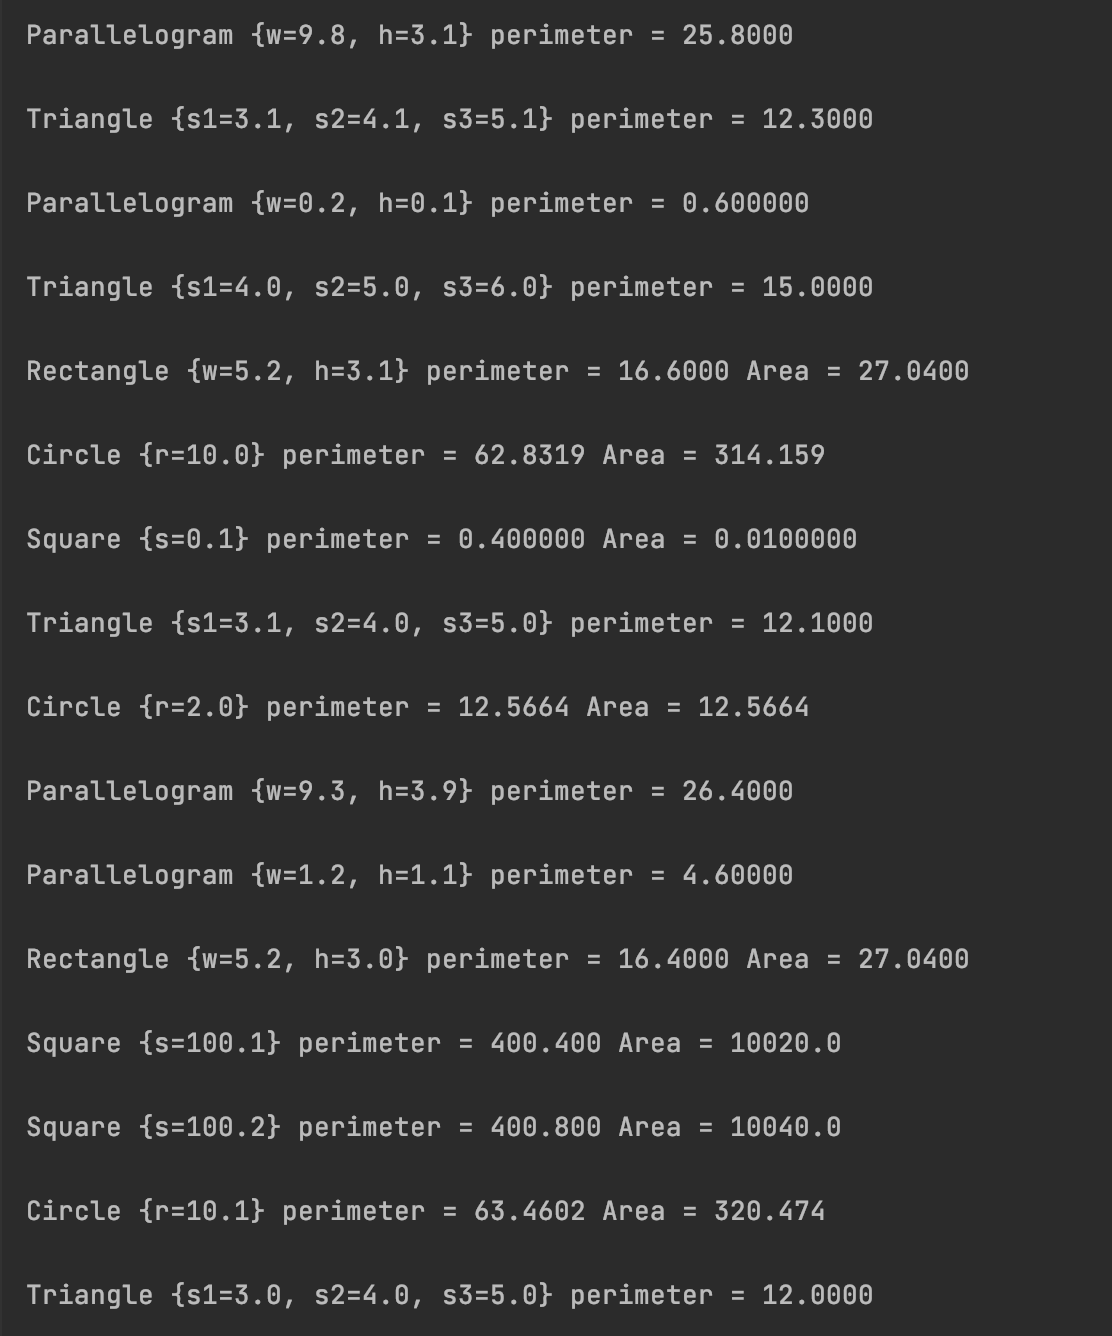
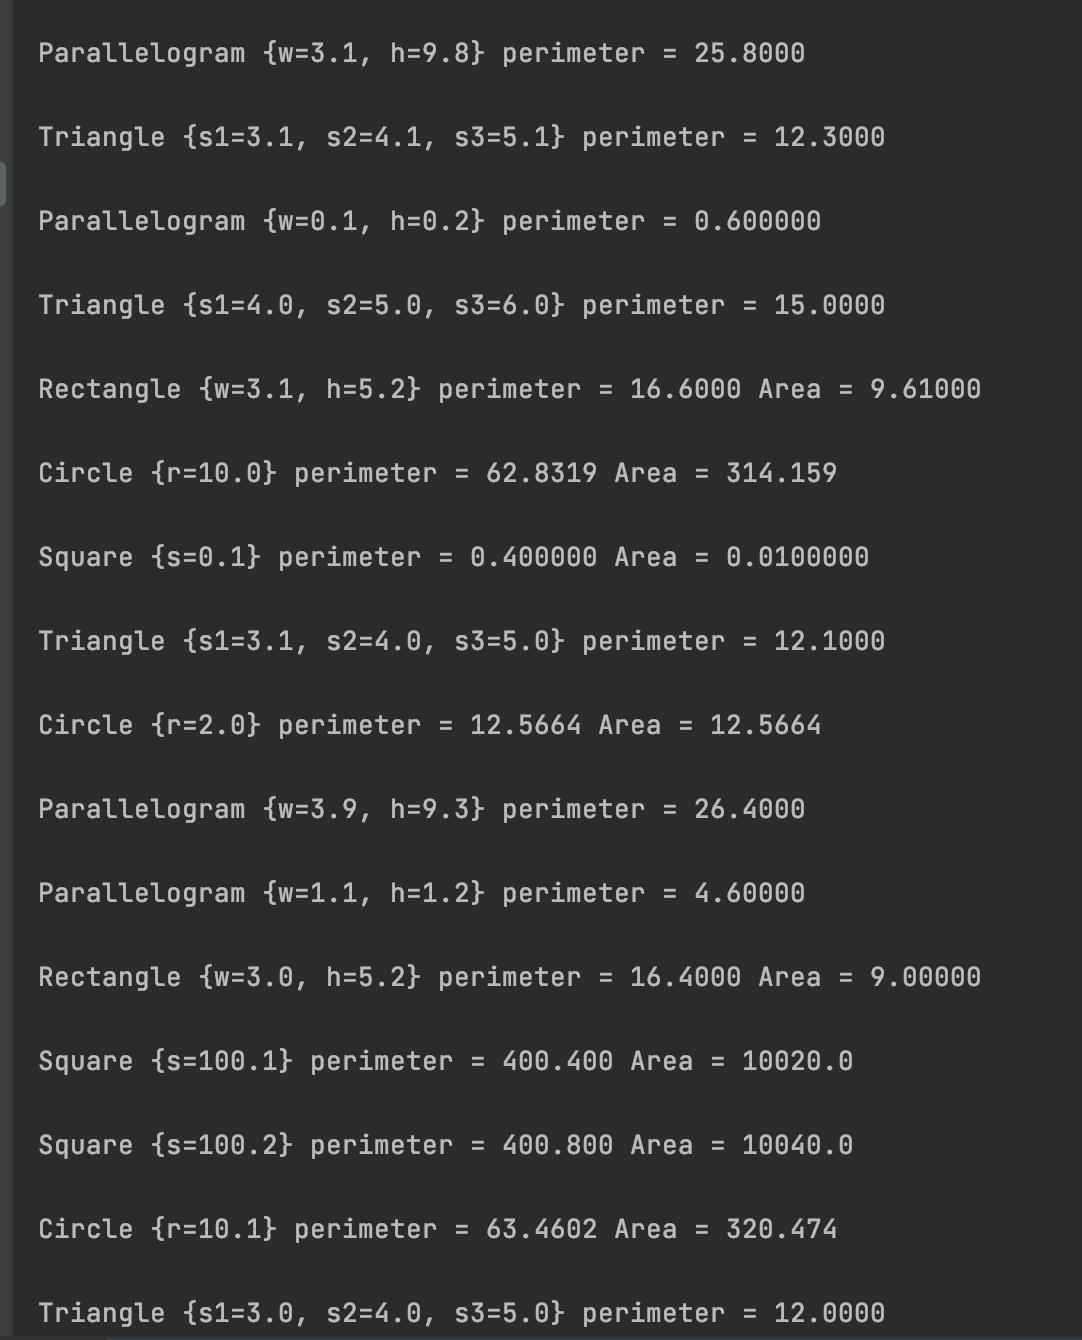
ws07

diff --git a/src/ws07/StudentProcess.java b/src/ws07/StudentProcess.java
@@ -1,0 +1,92 @@
+package ws07;
+
+import java.util.*;
+import java.util.stream.Collectors;
+import java.util.stream.Stream;
+
+public class StudentProcess {
+
+    private List<Student> students;
+
+    public StudentProcess(Student[] students) {
+        this.students = Arrays.asList(students);
+    }
+
+    public Stream<Student> studentStream() {
+        return students.stream();
+    }
+
+
+    public void task1(){
+        System.out.println("Task 1:");
+        System.out.println("Complete Student list:");
+        studentStream().forEach(System.out::println);
+    }
+
+    public void task2(){
+        System.out.println("Task 2:");
+        System.out.println("Students who got 50.0-100.0 sorted by grade:");
+        studentStream().filter(s -> s.getGrade() >= 50.0 && s.getGrade() <= 100.0)
+                .sorted(Student.GRADECOMPARATOR).forEach(System.out::println);
+    }
+
+    public void task3(){
+        System.out.println("Task 3:");
+        System.out.println("First Student who got 50.0-100.0:");
+        studentStream()
+                .filter(s -> s.getGrade() >= 50.0 && s.getGrade() <= 100.0)
+                .findFirst()
+                .ifPresent(System.out::println);
+    }
+
+
+    public void task4(){
+        System.out.println("Task 4:");
+        System.out.println("Students in ascending order by last name then first:");
+
+        studentStream()
+                .sorted(Student.NAMECOMPARATOR)
+                .forEach(System.out::println);
+
+        System.out.println("Students in descending order by last name then first:");
+
+        studentStream()
+                .sorted(Student.NAMECOMPARATOR.reversed())
+                .forEach(System.out::println);
+    }
+
+    public void task5(){
+        System.out.println("Task 5:");
+        System.out.println("Unique Student last names:");
+
+        //stream student - sort - stream string - distinct - sout
+        studentStream()
+                .sorted(Student.NAMECOMPARATOR)
+                .map(Student::getLastName)
+                .distinct()
+                .forEach(System.out::println);
+    }
+
+    public static void main(String[] args) {
+        Student[] students = {
+                new Student("Jack", "Smith", 50.0, "IT"),
+                new Student("Aaron", "Johnson", 76.0, "IT"),
+                new Student("Maaria", "White", 35.8, "Business"),
+                new Student("John", "White", 47.0, "Media"),
+                new Student("Laney", "White", 62.0, "IT"),
+                new Student("Jack", "Jones", 32.9, "Business"),
+                new Student("Wesley", "Jones", 42.89, "Media")};
+
+        StudentProcess sp = new StudentProcess(students);
+        sp.task1();
+        System.out.println();
+        sp.task2();
+        System.out.println();
+        sp.task3();
+        System.out.println();
+        sp.task4();
+        System.out.println();
+        sp.task5();
+
+    }
+}

diff --git a/src/ws07/Student.java b/src/ws07/Student.java
@@ -1,0 +1,80 @@
+/* ********************************************************************/
+/*  Name: Ha Eun Kim
+/*  Student ID: 158007187
+/*  Professor: Reza Khojasteh / JAC444NAA -  Workshop 7
+/*  Date: July 19, 2021
+/* ********************************************************************/
+
+package ws07;
+
+import java.util.Comparator;
+import java.util.Objects;
+
+public class Student {
+    public static final Comparator<Student> GRADECOMPARATOR = Comparator.comparing(Student::getGrade);
+    public static final Comparator<Student> NAMECOMPARATOR =
+            Comparator.comparing(Student::getLastName)
+                    .thenComparing(Student::getFirstName);
+
+    private String firstName;
+    private String lastName;
+    private double grade;
+    private String department;
+
+    public Student(String firstName, String lastName, double grade, String department) {
+        this.firstName = firstName;
+        this.lastName = lastName;
+        this.grade = grade;
+        this.department = department;
+    }
+
+    public String getFirstName() {
+        return firstName;
+    }
+
+    public void setFirstName(String firstName) {
+        this.firstName = firstName;
+    }
+
+    public String getLastName() {
+        return lastName;
+    }
+
+    public String getName() {
+        return getFirstName() + " " + getLastName();
+    }
+
+    public void setLastName(String lastName) {
+        this.lastName = lastName;
+    }
+
+    public double getGrade() {
+        return grade;
+    }
+
+    public void setGrade(double grade) {
+        this.grade = grade;
+    }
+
+    public String getDepartment() {
+        return department;
+    }
+
+    public void setDepartment(String department) {
+        this.department = department;
+    }
+
+    @Override
+    public boolean equals(Object o) {
+        if (this == o) return true;
+        if (o == null || getClass() != o.getClass()) return false;
+        Student student = (Student) o;
+        return Double.compare(student.grade, grade) == 0 && firstName.equals(student.firstName) && lastName.equals(student.lastName) && department.equals(student.department);
+    }
+
+    @Override
+    public String toString() {
+        return getFirstName() + "\t" + getLastName() + "\t" + String.format("%.2f", getGrade()) + "\t" + getDepartment();
+    }
+
+}

diff --git a/src/ws06/Rectangle.java b/src/ws06/Rectangle.java
@@ -6,10 +6,10 @@ public class Rectangle implements Shape {
     private double width;
     protected Area area = () -> getWidth() * getWidth();
 
-    public Rectangle(double height, double width) throws ShapeException {
+    public Rectangle(double width, double height) throws ShapeException {
         if (width > 0 && height > 0) {
-            this.height = height;
             this.width = width;
+            this.height = height;
         } else {
             throw new ShapeException("Invalid side!");
         }

diff --git a/src/ws06/Parallelogram.java b/src/ws06/Parallelogram.java
@@ -1,8 +1,8 @@
 package ws06;
 
 public class Parallelogram extends Rectangle {
-    public Parallelogram(double height, double width) throws ShapeException {
-        super(height, width);
+    public Parallelogram(double width, double height) throws ShapeException {
+        super(width, height);
     }
 
     @Override
